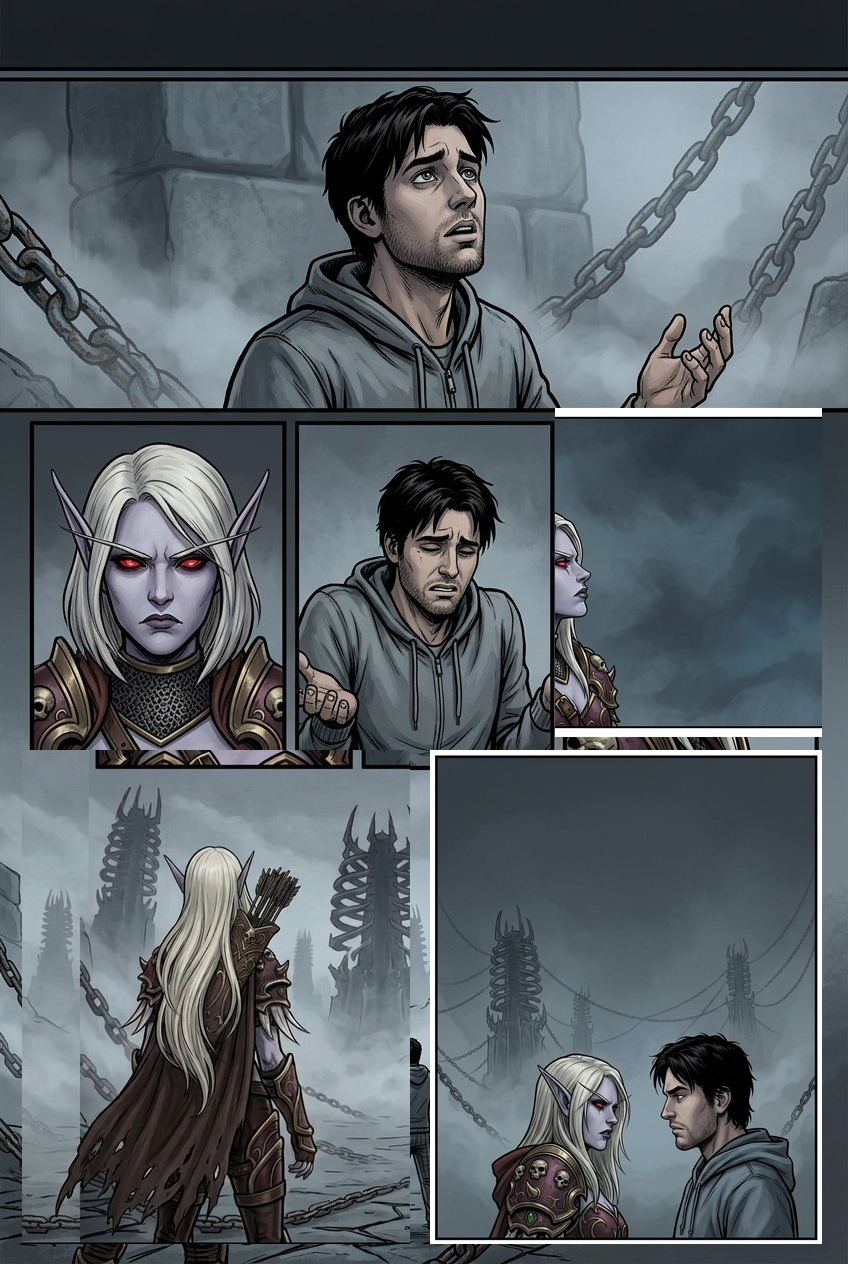
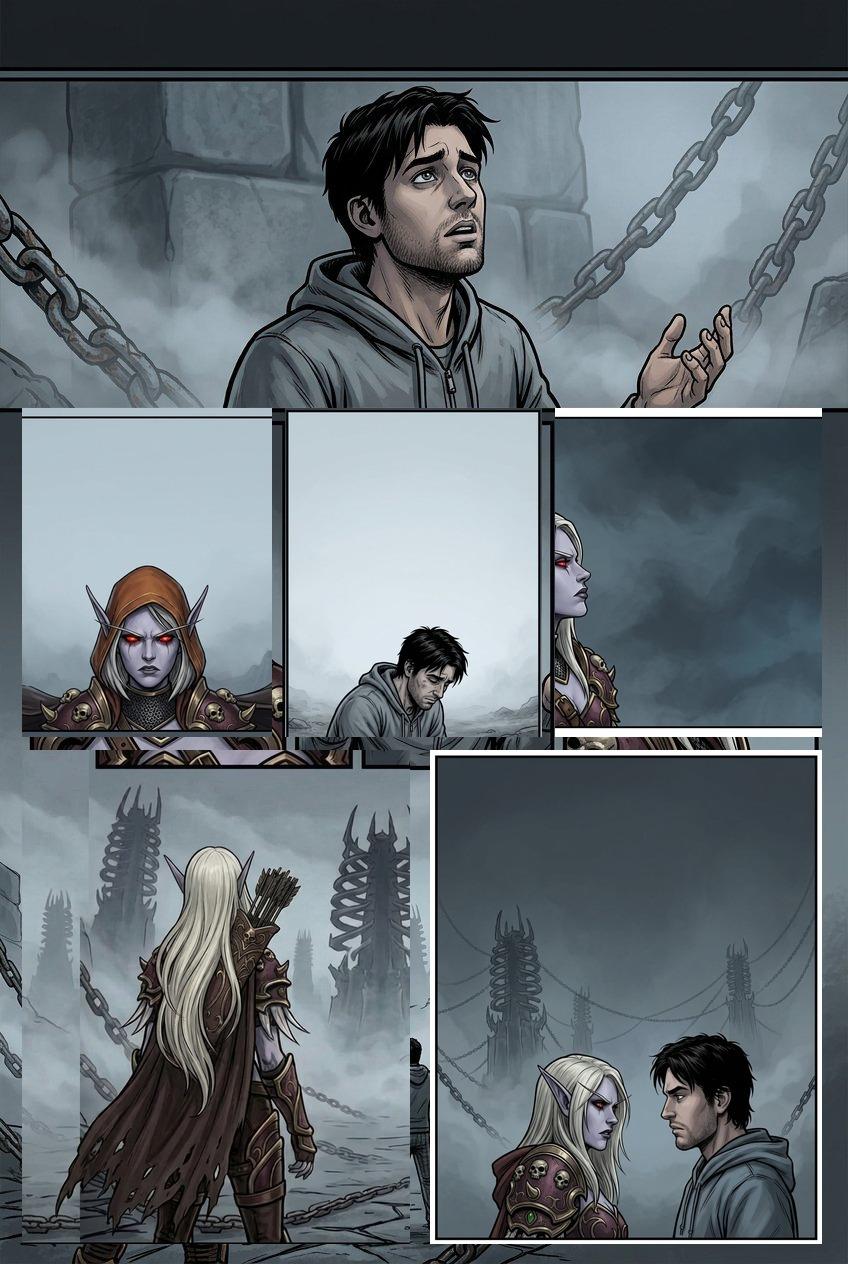
v20 20260911-20: close-ups da P7 reenquadrados + limpeza
- P7-q1 (close dela) e P7-q2 (close dele) regenerados com cabeças menores
  e céu no topo — os últimos close-ups apertados do capítulo
- Balões 'Personagem.' e 'É a palavra errada. Eu sei.' no céu dos
  close-ups, caudas nos falantes
- Comentários obsoletos removidos (linhas 'quadros provisórios' do
  data.js; cabeçalho do layout.js agora reflete proteção de 8%)
- Validador: 94 balões, fs mínima 19px, 0 violações, 0 fora

Changed region(s): [[0.0, 0.3085, 0.6439, 0.5862]]

diff --git a/livro continua/site/hq/data.js b/livro continua/site/hq/data.js
@@ -9,7 +9,6 @@
    máx. 25 palavras (fala) / 30 (narração), área máx. 25%.
    SFX e letreiro ficam manuais (efeitos pintados na ação).
    Mapeamento de arte: page03.jpg = "As três flechas" ·
-   page04.jpg = "Sylvanas". Páginas 5-10: quadros provisórios
    (arte em produção) — reajustar zonas quando a arte chegar. */
 const PAGINAS = [
 /* ==================== PÁGINA 1 — O despertar (arte real) ==================== */
@@ -89,7 +88,6 @@ const PAGINAS = [
    {t:"fala", p:5, de:"nathan", ancora:[675, 1720], texto:"Obrigado, aliás. Por isso."},
    {t:"narra", p:3, texto:"Ela não reagiu ao agradecimento. Nem para aceitar, nem para desprezar."}
   ]},
-/* ==================== PÁGINA 5 — O jogo (quadros provisórios) ==================== */
 /* ==================== PÁGINA 5 — O jogo (arte real) ==================== */
 { img:"img/page05.jpg",
  paineis:[
@@ -117,7 +115,6 @@ const PAGINAS = [
    {t:"fala", p:6, de:"sylvanas", ancora:[460, 1535], texto:"Você é uma armadilha, um espião ou um lunático. Nenhuma das três hipóteses recomenda que eu o deixe vivo."},
    {t:"fala", p:6, de:"nathan", ancora:[710, 1700], texto:"Se eu fosse uma armadilha... eu teria vindo com sapatos."}
  ]},
-/* ==================== PÁGINA 6 — A tatuagem (quadros provisórios) ==================== */
 /* ==================== PÁGINA 6 — A tatuagem (arte real) ==================== */
 { img:"img/page06.jpg",
  paineis:[
@@ -142,27 +139,25 @@ const PAGINAS = [
    {t:"narra", p:4, texto:"A mão dela era fria. Não fria de morto — fria de coisa que parou de precisar ser quente."},
    {t:"fala", p:4, de:"sylvanas", ancora:[455, 1585], texto:"Por quê?"}
  ]},
-/* ==================== PÁGINA 7 — A resposta (quadros provisórios) ==================== */
 /* ==================== PÁGINA 7 — A resposta (arte real) ==================== */
 { img:"img/page07.jpg",
  paineis:[
    {r:[30,55,1215,550], rostos:[[215,140,190,200]], zonas:[[430,270,120,120]]},
-   {r:[30,620,380,500], rostos:[[85,700,195,240]]},
-   {r:[430,620,390,500], rostos:[[520,665,180,240]]},
+   {r:[30,620,380,500], rostos:[[172,788,88,84]], zonas:[[85,745,285,155],[30,862,380,58]]},
+   {r:[430,620,390,500], rostos:[[578,986,108,102]], zonas:[[515,1040,315,80]]},
    {r:[840,620,405,500], rostos:[[845,843,72,85]], zonas:[[840,925,180,190]]},
    {r:[30,1140,590,750], rostos:[[75,1228,105,120],[318,1545,58,70]], zonas:[[60,1330,180,400],[80,1540,440,340]]},
    {r:[650,1140,595,750], rostos:[[688,1682,105,115],[1075,1672,90,105]], zonas:[[665,1780,220,105],[1030,1770,215,115]]}
  ],
  elementos:[
    {t:"fala", p:0, de:"nathan", ancora:[335, 335], texto:"Porque a sua história me acompanhou num período em que eu não estava bem. Você era a personagem que não pedia desculpa por continuar existindo depois de ter perdido tudo. Isso importava pra mim. Numa época em que eu não sabia como fazer isso."},
-   {t:"fala", p:1, de:"sylvanas", ancora:[175, 905], texto:"Personagem."},
-   {t:"fala", p:2, de:"nathan", ancora:[625, 855], texto:"É a palavra errada. Eu sei."},
+   {t:"fala", p:1, de:"sylvanas", ancora:[214, 826], texto:"Personagem."},
+   {t:"fala", p:2, de:"nathan", ancora:[628, 1030], texto:"É a palavra errada. Eu sei."},
    {t:"fala", p:3, de:"sylvanas", ancora:[878, 880], texto:"É a palavra exata. E é por isso que ela é insuportável."},
    {t:"narra", p:4, texto:"Ela se afastou dois passos e olhou para o horizonte de costelas de ferro. Por um momento, ele viu — realmente viu — o quanto ela estava cansada."},
    {t:"fala", p:5, de:"sylvanas", ancora:[735, 1725], texto:"Então você sabe. Sobre Quel'Thalas. Sobre Arthas. Sobre o que eu fiz depois. Sobre a Torre de Lordaeron. Sobre tudo."},
    {t:"fala", p:5, de:"nathan", ancora:[1120, 1720], texto:"Sei."}
  ]},
-/* ==================== PÁGINA 8 — História e pessoa (quadros provisórios) ==================== */
 /* ==================== PÁGINA 8 — História e pessoa (arte real) ==================== */
 { img:"img/page08.jpg",
  paineis:[
@@ -185,7 +180,6 @@ const PAGINAS = [
   {t:"fala", p:5, de:"nathan", ancora:[455, 1545], texto:"Mas conhecer a história de alguém não significa conhecer a pessoa. Eu nunca ouvi você respirar antes de hoje."},
    {t:"narra", p:5, texto:"O vento da Gorja passou entre eles. Sylvanas não respondeu. Levou muito tempo para não responder."}
  ]},
-/* ==================== PÁGINA 9 — A caminhada (quadros provisórios) ==================== */
 /* ==================== PÁGINA 9 — A caminhada (arte real) ==================== */
 { img:"img/page09.jpg",
  paineis:[
@@ -213,7 +207,6 @@ const PAGINAS = [
    {t:"fala", p:6, de:"sylvanas", ancora:[388, 1700], tamanho:20, texto:"Se eu mandar você correr, você corre. E não volta."},
    {t:"fala", p:6, de:"nathan", ancora:[548, 1710], tamanho:20, texto:"Essa eu não prometo."}
  ]},
-/* ==================== PÁGINA 10 — Fechamento (quadros provisórios) ==================== */
 /* ==================== PÁGINA 10 — Fecho (arte real) ==================== */
 { img:"img/page10.jpg",
  paineis:[

diff --git a/livro continua/site/hq/index.html b/livro continua/site/hq/index.html
@@ -12,7 +12,7 @@
 <link rel="preconnect" href="https://fonts.googleapis.com">
 <link rel="preconnect" href="https://fonts.gstatic.com" crossorigin>
 <link href="https://fonts.googleapis.com/css2?family=Bangers&family=Oswald:wght@400;500;600;700&family=Spectral:ital,wght@1,400;1,500;1,600" rel="stylesheet">
-<link rel="stylesheet" href="hq.css?v=20260911-19">
+<link rel="stylesheet" href="hq.css?v=20260911-20">
 </head>
 <body>
 
@@ -52,9 +52,9 @@
 <div class="dots" id="dots"></div>
 <div class="indicador" id="ind"></div>
 
-<script src="layout.js?v=20260911-19"></script>
-<script src="data.js?v=20260911-19"></script>
-<script src="leitor.js?v=20260911-19"></script>
+<script src="layout.js?v=20260911-20"></script>
+<script src="data.js?v=20260911-20"></script>
+<script src="leitor.js?v=20260911-20"></script>
 <script>
 document.getElementById("capaBt").addEventListener("click",()=>{
   document.getElementById("capa").classList.remove("oculta");

diff --git a/livro continua/site/hq/ler.html b/livro continua/site/hq/ler.html
@@ -12,7 +12,7 @@
 <link rel="preconnect" href="https://fonts.googleapis.com">
 <link rel="preconnect" href="https://fonts.gstatic.com" crossorigin>
 <link href="https://fonts.googleapis.com/css2?family=Bangers&family=Oswald:wght@400;500;600;700&family=Spectral:ital,wght@1,400;1,500;1,600" rel="stylesheet">
-<link rel="stylesheet" href="hq.css?v=20260911-19">
+<link rel="stylesheet" href="hq.css?v=20260911-20">
 </head>
 <body>
 
@@ -52,9 +52,9 @@
 <div class="dots" id="dots"></div>
 <div class="indicador" id="ind"></div>
 
-<script src="layout.js?v=20260911-19"></script>
-<script src="data.js?v=20260911-19"></script>
-<script src="leitor.js?v=20260911-19"></script>
+<script src="layout.js?v=20260911-20"></script>
+<script src="data.js?v=20260911-20"></script>
+<script src="leitor.js?v=20260911-20"></script>
 <script>
 document.getElementById("capaBt").addEventListener("click",()=>{
   document.getElementById("capa").classList.remove("oculta");

diff --git a/livro continua/site/hq/layout.js b/livro continua/site/hq/layout.js
@@ -5,7 +5,7 @@
    LEGIBILIDADE > POSICIONAMENTO > TAMANHO):
    • Margem fixa de 5% das bordas de cada QUADRO — nenhum balão
      toca ou ultrapassa a borda do quadro.
-   • Zona de proteção de rostos: 5% da largura do quadro.
+   • Proteção de rostos: 8% da largura do quadro (zonas de corpo: 3%).
    • Zona de proteção de mãos/armas/objetos: 3% da largura.
    • Máx. 25 palavras por balão de fala / 30 por narração —
      textos maiores são DIVIDIDOS automaticamente em pontos

diff --git a/livro continua/site/hq/leitor.js b/livro continua/site/hq/leitor.js
@@ -6,7 +6,7 @@
    Rabichos são desenhados sobre os balões REAIS medidos no DOM.
    ============================================================ */
 const PW = 1280, PH = 1920;
-const VER = "20260911-19";
+const VER = "20260911-20";
 const NS = "http://www.w3.org/2000/svg";
 const COM_RABICHO = ["fala","grito","rouca","sussurro"];
 
